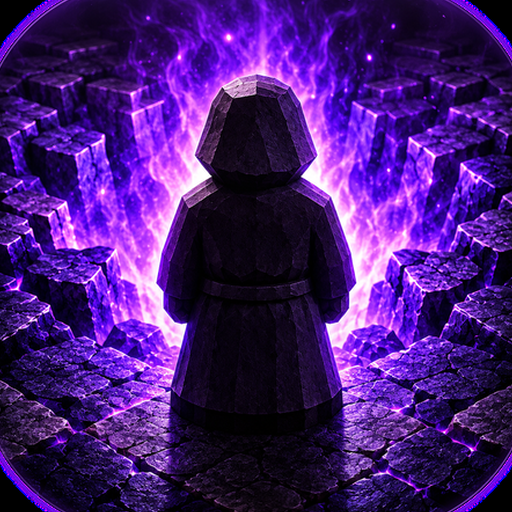
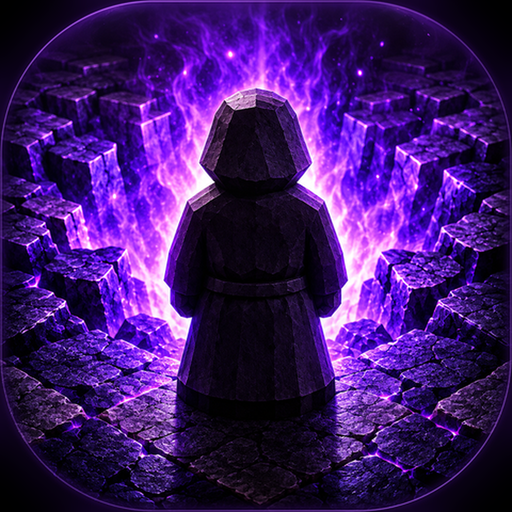
v1.56.0: App-Symbol richtig - randlos fuer Android/Play/iPhone, maskierbar in 192 und 512
Android zeigte das Symbol klein im weissen Kreis: das Manifest bot kein
maskierbares 192er, und das any-Symbol lag auf dunklem Grund. Jetzt randlose,
deckende Fassung (Ecken mit dem dunklen Rand gefuellt, Gestalt in der sicheren
Zone) fuer maskable-192/512, apple-touch-icon, Play und Suche; gerundete mit
durchsichtigen Ecken fuer any und Favicons. TWA-Vorlage auf das randlose Bild.

Kette: npm test RUECKGABECODE 0 - build:app - build:single - test_boot 3/3 -
verify-boot - drive3 KEINE FEHLER - messe_kulissen 57/57.

diff --git a/vite.config.js b/vite.config.js
@@ -62,6 +62,12 @@ export default defineConfig({
         icons: [
           { src: "icons/icon-192.png", sizes: "192x192", type: "image/png" },
           { src: "icons/icon-512.png", sizes: "512x512", type: "image/png" },
+          /* v1.56.0: ZWEI maskierbare Groessen. Fehlte die 192er, nahm Android
+             fuer den Startbildschirm das gerundete "any"-Symbol und setzte es
+             verkleinert in einen weissen Kreis (Besitzerfoto 24.9.). Die
+             maskierbaren Bilder sind randlos; die Gestalt liegt in der
+             sicheren Zone (Kreis mit 80 % Durchmesser). */
+          { src: "icons/maskable-192.png", sizes: "192x192", type: "image/png", purpose: "maskable" },
           { src: "icons/maskable-512.png", sizes: "512x512", type: "image/png", purpose: "maskable" },
         ],
       },

diff --git a/CHANGELOG.md b/CHANGELOG.md
@@ -1,5 +1,26 @@
 # Changelog - Gambit Rise
 
+## 1.56.0 - das App-Symbol, diesmal richtig
+- Besitzerfoto 24.9.: auf dem Startbildschirm stand das neue Symbol klein in
+  einem WEISSEN KREIS, mit dunklen Ecken. URSACHE (mein Fehler aus v1.45.0):
+  das Manifest bot ein maskierbares Symbol nur in 512 an. Android nahm fuer
+  den Startbildschirm das gerundete 192er ("any") - das ich zudem auf dunklen
+  Grund gelegt hatte - und setzte es, weil nicht maskierbar, verkleinert in
+  einen weissen Kreis.
+- ZWEI FASSUNGEN aus dem gelieferten Bild (480-px-Rundquadrat mit dunklem
+  Innenrand), nach Einsatzort:
+    * RANDLOS und deckend - wo das System selbst rundet oder maskiert:
+      maskable-192, maskable-512 (Android: Kreis, Squircle, je nach Handy),
+      apple-touch-icon (iPhone), Play-Store-Symbol, Suchsymbole. Die
+      durchsichtigen Ecken sind mit dem dunklen Rand des Bildes gefuellt,
+      nicht weggezoomt - nichts wird unscharf. Die Gestalt liegt in der
+      sicheren Zone (Kreis mit 80 % Durchmesser).
+    * GERUNDET mit DURCHSICHTIGEN Ecken - wo niemand rundet: icon-192/512
+      ("any", Desktop), Favicons.
+- Manifest: maskable in 192 UND 512. Android-Paketvorlage nimmt das randlose
+  Bild. Proben halten Manifest, Deckkraft und Paketvorlage fest.
+- Vorschau aller Masken: design/app-symbol-masken-2026-09-24.png.
+
 ## 1.55.0 - Slider und Brett-Hintergruende wieder da
 - FEHLER 1 (Besitzer: "der Slider bei Aufstellung kommt nicht, wenn ich auf
   eine Figur klicke"): die hintere Reihe oeffnete sich, wenn eine Station
